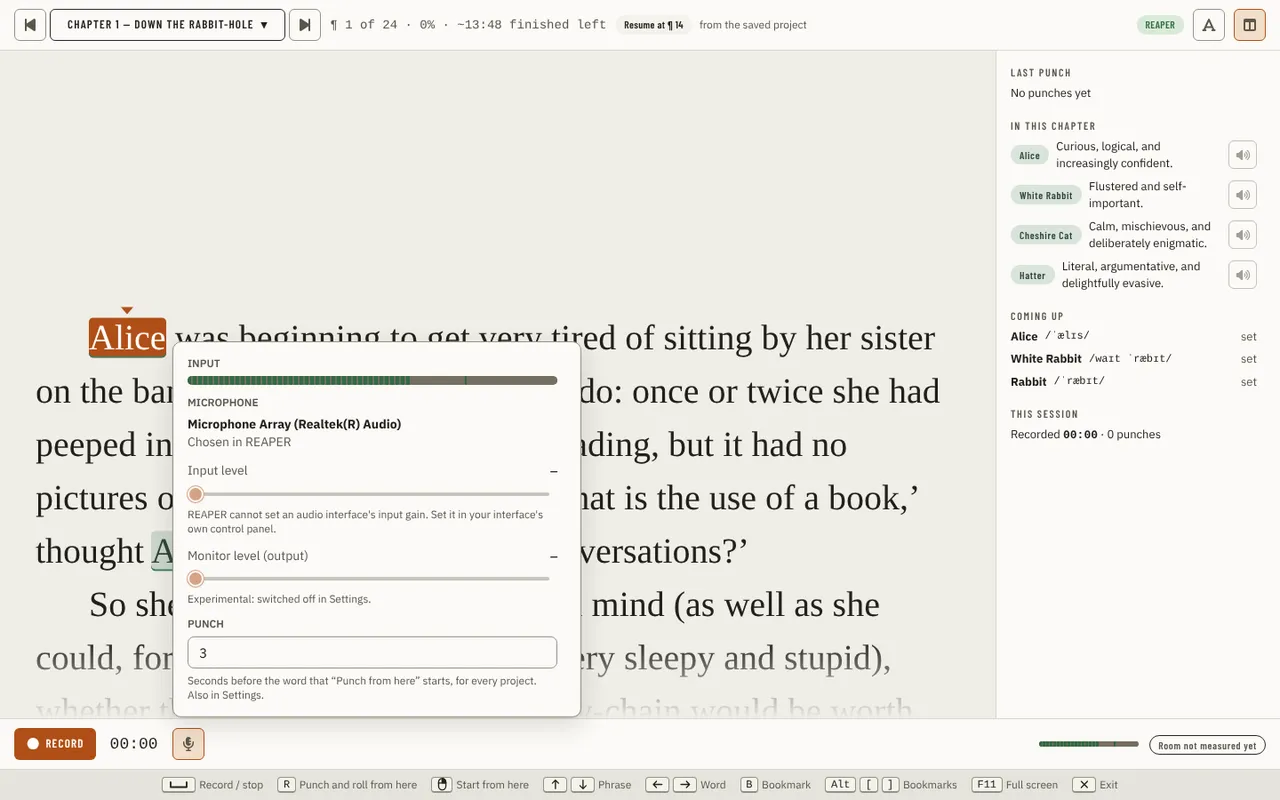
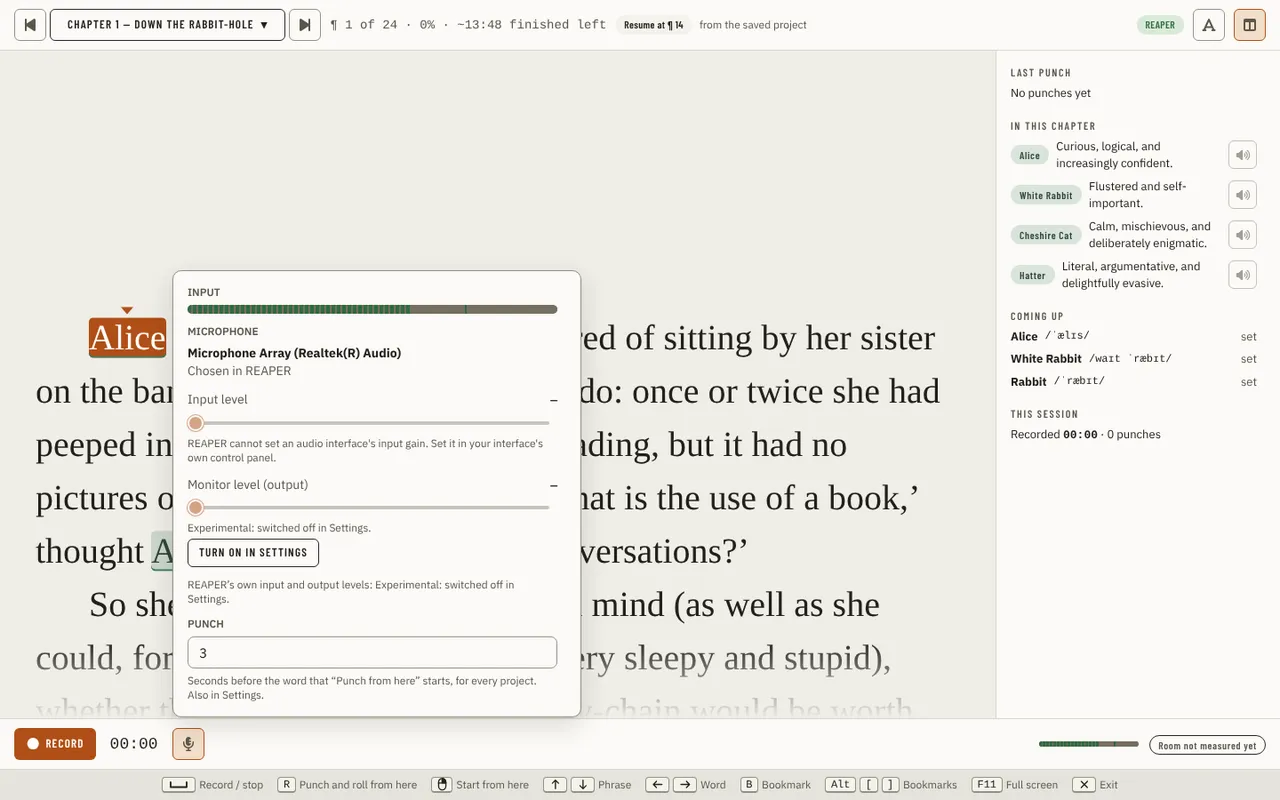
docs(booth): the Levels menu images show REAPER's meters and the way to turn them on
Each DAW meter gets a short caption so a bare bar is never read as
something else.

Refs #2251

Claude-Session: https://claude.ai/code/session_01BQCNweoptsqgvuMBsgyrFD

Changed region(s): [[0.125, 0.375, 0.4688, 0.75]]

diff --git a/src/studio/ui/src/components/booth/frame/LevelsMenu.tsx b/src/studio/ui/src/components/booth/frame/LevelsMenu.tsx
@@ -159,10 +159,17 @@ function LevelRow({
 }
 
 /** The DAW's own meter for one side, under its slider: the level in dBFS on the shared meter, or why there is none. */
-function DawMeter({ label, db, why }: { label: string; db: number | null; why?: string }) {
+function DawMeter({ caption, label, db, why }: { caption: string; label: string; db: number | null; why?: string }) {
   return (
     <div className="flex flex-col gap-0.5">
-      <LevelMeter label={label} peak={db} rms={db} size="compact" />
+      <div className="flex items-center gap-2">
+        <span aria-hidden="true" className="shrink-0 text-xs text-[var(--text-muted)]">
+          {caption}
+        </span>
+        <div className="min-w-0 flex-1">
+          <LevelMeter label={label} peak={db} rms={db} size="compact" />
+        </div>
+      </div>
       {why ? <span className="text-xs [overflow-wrap:anywhere] text-[var(--text-muted)]">{why}</span> : null}
     </div>
   );
@@ -223,7 +230,7 @@ function LevelSliders({ levels, dawName }: { levels: NonNullable<LevelsMenuProps
     <div className="flex flex-col gap-3">
       <div className="flex flex-col gap-1">
         <LevelRow label="Input level" value={0} shown="—" disabled note={input?.message ?? 'The input level cannot be set from here.'} />
-        {inputMeter ? <DawMeter label={`${dawName} input level`} db={inputMeter.db} why={inputMeter.why} /> : null}
+        {inputMeter ? <DawMeter caption={`${dawName} input`} label={`${dawName} input level`} db={inputMeter.db} why={inputMeter.why} /> : null}
       </div>
       <div className="flex flex-col gap-1">
         {monitor?.available ? (
@@ -232,7 +239,7 @@ function LevelSliders({ levels, dawName }: { levels: NonNullable<LevelsMenuProps
           <LevelRow label="Monitor level (output)" value={0} shown="—" disabled note={monitor?.message ?? 'The monitor level cannot be set from here.'} />
         )}
         <TurnOn support={monitor} onOpenSettings={onOpenSettings} />
-        {outputMeter ? <DawMeter label={`${dawName} output level`} db={outputMeter.db} why={outputMeter.why} /> : null}
+        {outputMeter ? <DawMeter caption={`${dawName} output`} label={`${dawName} output level`} db={outputMeter.db} why={outputMeter.why} /> : null}
       </div>
       {meters && !meters.available ? (
         <div className="flex flex-col gap-1">
